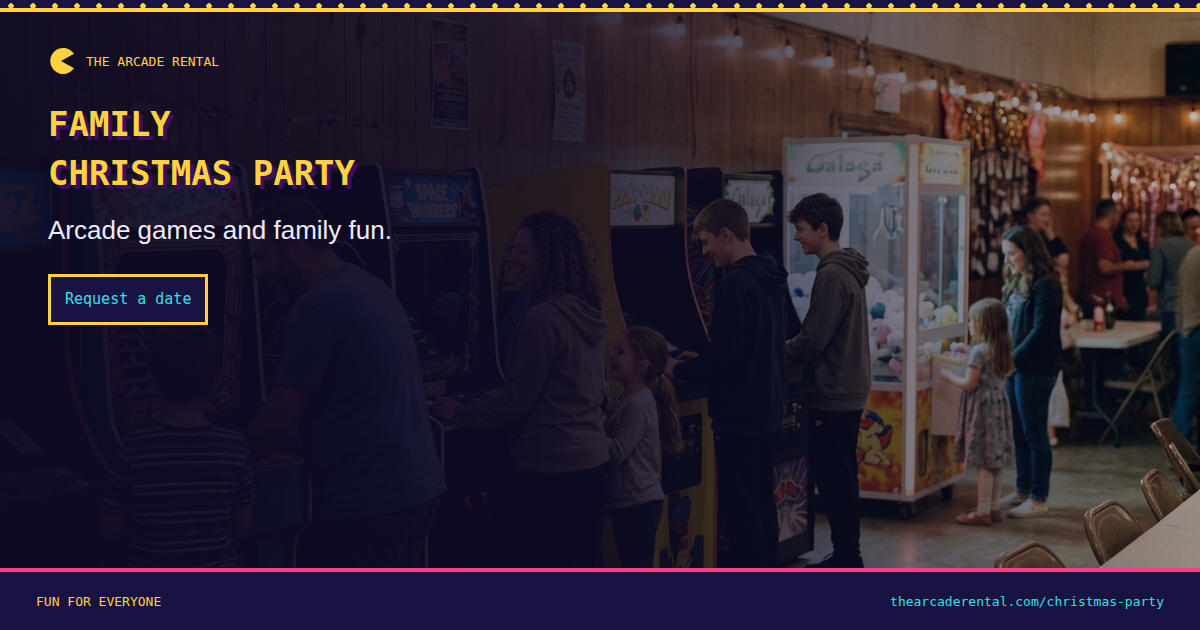
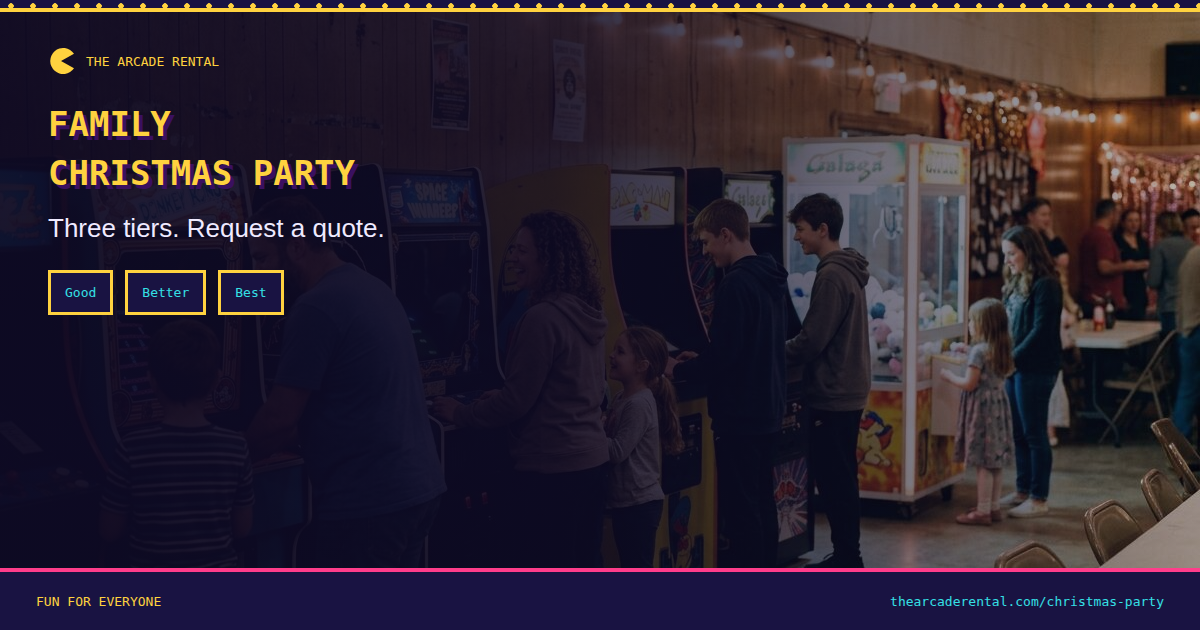
Simplify the four package pages to three choices each.
Birthday add-ons move to one line under the cards. Christmas uses Good, Better, and Best with Request a quote instead of a price.

Changed region(s): [[0.0308, 0.4222, 0.2467, 0.5429], [0.0308, 0.3317, 0.3392, 0.3921]]

diff --git a/christmas-party/index.html b/christmas-party/index.html
@@ -4,23 +4,23 @@
 <meta charset="utf-8">
 <meta name="viewport" content="width=device-width,initial-scale=1">
 <title>Family Christmas Party – The Arcade Rental</title>
-<meta name="description" content="Family Christmas party arcade rentals. Request a date with Steve Hanford for a holiday party with arcade games and family fun.">
+<meta name="description" content="Family Christmas party arcade rentals in three tiers. Request a quote for Good, Better, or Best. No price is listed on the flyer.">
 <link rel="canonical" href="https://thearcaderental.com/christmas-party">
 <meta property="og:title" content="Family Christmas Party – The Arcade Rental">
-<meta property="og:description" content="Family Christmas party arcade rentals. Request a date with Steve Hanford for a holiday party with arcade games and family fun.">
+<meta property="og:description" content="Family Christmas party arcade rentals in three tiers. Request a quote for Good, Better, or Best. No price is listed on the flyer.">
 <meta property="og:image" content="https://thearcaderental.com/og/christmas-party.png">
 <meta property="og:image:secure_url" content="https://thearcaderental.com/og/christmas-party.png">
 <meta property="og:image:width" content="1200">
 <meta property="og:image:height" content="630">
-<meta property="og:image:alt" content="Family Christmas party arcade rentals at The Arcade Rental. Request a date.">
+<meta property="og:image:alt" content="Family Christmas party at The Arcade Rental. Three tiers, each one request a quote.">
 <meta property="og:url" content="https://thearcaderental.com/christmas-party">
 <meta property="og:type" content="website">
 <meta property="og:site_name" content="The Arcade Rental">
 <meta name="twitter:card" content="summary_large_image">
 <meta name="twitter:title" content="Family Christmas Party – The Arcade Rental">
-<meta name="twitter:description" content="Family Christmas party arcade rentals. Request a date with Steve Hanford for a holiday party with arcade games and family fun.">
+<meta name="twitter:description" content="Family Christmas party arcade rentals in three tiers. Request a quote for Good, Better, or Best. No price is listed on the flyer.">
 <meta name="twitter:image" content="https://thearcaderental.com/og/christmas-party.png">
-<meta name="twitter:image:alt" content="Family Christmas party arcade rentals at The Arcade Rental. Request a date.">
+<meta name="twitter:image:alt" content="Family Christmas party at The Arcade Rental. Three tiers, each one request a quote.">
 <link rel="icon" href="../favicon.svg" type="image/svg+xml">
 <link rel="icon" href="../favicon-32.png" sizes="32x32" type="image/png">
 <link rel="alternate icon" href="../favicon.ico">
@@ -60,18 +60,44 @@
 </figure>
 </div></section>
 <section class="offer-options"><div class="wrap">
-    <div class="offer-grid single">
-    <article class="offer-card" style="--accent:#ff3d8b">
-      <p class="offer-kicker">HOLIDAY RENTAL</p>
-      <h2>Family Christmas Party</h2>
+    <div class="offer-grid">
+    <article class="offer-card" style="--accent:#5cf28a">
+      <p class="offer-kicker">GOOD</p>
+      <h2>Good</h2>
+      <p class="offer-price">Request a quote</p>
       <ul>
-        <li>Arcade games for the whole family</li>
-        <li>Party rental for your holiday gathering</li>
-        <li>Ask about available dates</li>
+        <li>Holiday party rental</li>
+        <li>Arcade games for the family</li>
       </ul>
       <div class="offer-actions">
-        <a class="btn btn-y js-pay" data-page="christmas-party" data-option="family-party" data-buy-label="BUY ▸" data-buy-aria="Buy a Family Christmas Party rental" aria-label="Email Steve to request a date for a Family Christmas Party" href="mailto:TheArcadeRental@gmail.com?subject=The%20Arcade%20Rental%3A%20Family%20Christmas%20Party%20%28request%20a%20date%29&amp;body=Hi%20Steve%2C%0A%0AI%20want%20to%20book%3A%20Family%20Christmas%20Party%20%28request%20a%20date%29.%0A%0AName%3A%0APhone%3A%0ADate%3A%0A">REQUEST A DATE ▸</a>
-        <a class="smslink js-text" href="sms:+15745275765?body=Hi%20Steve%2C%20I%20want%20to%20book%3A%20Family%20Christmas%20Party%20%28request%20a%20date%29." aria-label="Text Steve to request a date for a Family Christmas Party">or text Steve</a>
+        <a class="btn btn-y js-pay" data-page="christmas-party" data-option="good" data-buy-label="BUY ▸" data-buy-aria="Buy the Good Family Christmas Party" aria-label="Email Steve to request a quote for the Good Family Christmas Party" href="mailto:TheArcadeRental@gmail.com?subject=The%20Arcade%20Rental%3A%20Family%20Christmas%20Party%20%E2%80%94%20Good%20%28request%20a%20quote%29&amp;body=Hi%20Steve%2C%0A%0AI%20want%20to%20book%3A%20Family%20Christmas%20Party%20%E2%80%94%20Good%20%28request%20a%20quote%29.%0A%0AName%3A%0APhone%3A%0ADate%3A%0A">REQUEST A QUOTE</a>
+        <a class="smslink js-text" href="sms:+15745275765?body=Hi%20Steve%2C%20I%20want%20to%20book%3A%20Family%20Christmas%20Party%20%E2%80%94%20Good%20%28request%20a%20quote%29." aria-label="Text Steve to request a quote for the Good Family Christmas Party">or text Steve</a>
+      </div>
+    </article>
+    <article class="offer-card popular" style="--accent:#35e0e6">
+      <p class="offer-kicker">BETTER</p>
+      <h2>Better</h2>
+      <p class="offer-price">Request a quote</p>
+      <ul>
+        <li>Holiday party rental</li>
+        <li>Arcade games for the family</li>
+      </ul>
+      <div class="offer-actions">
+        <a class="btn btn-y js-pay" data-page="christmas-party" data-option="better" data-buy-label="BUY ▸" data-buy-aria="Buy the Better Family Christmas Party" aria-label="Email Steve to request a quote for the Better Family Christmas Party" href="mailto:TheArcadeRental@gmail.com?subject=The%20Arcade%20Rental%3A%20Family%20Christmas%20Party%20%E2%80%94%20Better%20%28request%20a%20quote%29&amp;body=Hi%20Steve%2C%0A%0AI%20want%20to%20book%3A%20Family%20Christmas%20Party%20%E2%80%94%20Better%20%28request%20a%20quote%29.%0A%0AName%3A%0APhone%3A%0ADate%3A%0A">REQUEST A QUOTE</a>
+        <a class="smslink js-text" href="sms:+15745275765?body=Hi%20Steve%2C%20I%20want%20to%20book%3A%20Family%20Christmas%20Party%20%E2%80%94%20Better%20%28request%20a%20quote%29." aria-label="Text Steve to request a quote for the Better Family Christmas Party">or text Steve</a>
+      </div>
+    </article>
+    <article class="offer-card" style="--accent:#ff3d8b">
+      <p class="offer-kicker">BEST</p>
+      <h2>Best</h2>
+      <p class="offer-price">Request a quote</p>
+      <ul>
+        <li>Holiday party rental</li>
+        <li>Arcade games for the family</li>
+      </ul>
+      <div class="offer-actions">
+        <a class="btn btn-y js-pay" data-page="christmas-party" data-option="best" data-buy-label="BUY ▸" data-buy-aria="Buy the Best Family Christmas Party" aria-label="Email Steve to request a quote for the Best Family Christmas Party" href="mailto:TheArcadeRental@gmail.com?subject=The%20Arcade%20Rental%3A%20Family%20Christmas%20Party%20%E2%80%94%20Best%20%28request%20a%20quote%29&amp;body=Hi%20Steve%2C%0A%0AI%20want%20to%20book%3A%20Family%20Christmas%20Party%20%E2%80%94%20Best%20%28request%20a%20quote%29.%0A%0AName%3A%0APhone%3A%0ADate%3A%0A">REQUEST A QUOTE</a>
+        <a class="smslink js-text" href="sms:+15745275765?body=Hi%20Steve%2C%20I%20want%20to%20book%3A%20Family%20Christmas%20Party%20%E2%80%94%20Best%20%28request%20a%20quote%29." aria-label="Text Steve to request a quote for the Best Family Christmas Party">or text Steve</a>
       </div>
     </article>
     </div>

diff --git a/birthday/index.html b/birthday/index.html
@@ -68,8 +68,6 @@
       <ul>
         <li>2 hours of unlimited arcade play</li>
         <li>Up to 10 kids</li>
-        <li>Additional child +$15 each</li>
-        <li>Parents Play Pass $5 per adult</li>
       </ul>
       <div class="offer-actions">
         <a class="btn btn-y js-pay" data-page="birthday" data-option="classic" data-buy-label="BUY ▸" data-buy-aria="Buy Level 1 Classic Gamer Party, $200" aria-label="Email Steve to buy Level 1 Classic Gamer Party, $200" href="mailto:TheArcadeRental@gmail.com?subject=The%20Arcade%20Rental%3A%20Level%201%20Classic%20Gamer%20Party%20%28%24200%29&amp;body=Hi%20Steve%2C%0A%0AI%20want%20to%20book%3A%20Level%201%20Classic%20Gamer%20Party%20%28%24200%29.%0A%0AName%3A%0APhone%3A%0ADate%3A%0A">BUY ▸</a>
@@ -83,8 +81,6 @@
       <ul>
         <li>2 hours of unlimited arcade play</li>
         <li>Up to 10 kids</li>
-        <li>Additional child +$20 each</li>
-        <li>Parents Play Pass $5 per adult</li>
       </ul>
       <div class="offer-actions">
         <a class="btn btn-y js-pay" data-page="birthday" data-option="power-up" data-buy-label="BUY ▸" data-buy-aria="Buy Level 2 Power Up Party, $300" aria-label="Email Steve to buy Level 2 Power Up Party, $300" href="mailto:TheArcadeRental@gmail.com?subject=The%20Arcade%20Rental%3A%20Level%202%20Power%20Up%20Party%20%28%24300%29&amp;body=Hi%20Steve%2C%0A%0AI%20want%20to%20book%3A%20Level%202%20Power%20Up%20Party%20%28%24300%29.%0A%0AName%3A%0APhone%3A%0ADate%3A%0A">BUY ▸</a>
@@ -98,8 +94,6 @@
       <ul>
         <li>2 hours of unlimited arcade play</li>
         <li>Up to 10 kids</li>
-        <li>Additional child +$25 each</li>
-        <li>Parents Play Pass $5 per adult</li>
       </ul>
       <div class="offer-actions">
         <a class="btn btn-y js-pay" data-page="birthday" data-option="ultimate" data-buy-label="BUY ▸" data-buy-aria="Buy Level 3 Ultimate High Score Party, $400" aria-label="Email Steve to buy Level 3 Ultimate High Score Party, $400" href="mailto:TheArcadeRental@gmail.com?subject=The%20Arcade%20Rental%3A%20Level%203%20Ultimate%20High%20Score%20Party%20%28%24400%29&amp;body=Hi%20Steve%2C%0A%0AI%20want%20to%20book%3A%20Level%203%20Ultimate%20High%20Score%20Party%20%28%24400%29.%0A%0AName%3A%0APhone%3A%0ADate%3A%0A">BUY ▸</a>
@@ -107,6 +101,7 @@
       </div>
     </article>
     </div>
+    <p class="offer-fine">Additional children: Classic +$15, Power Up +$20, Ultimate +$25 each. Parents Play Pass $5 per adult.</p>
 </div></section>
 <section class="cta"><div class="wrap">
 <p class="contactline">Contact <strong>Steve Hanford</strong> · <a href="mailto:TheArcadeRental@gmail.com">TheArcadeRental@gmail.com</a> · call/text <a href="tel:5745275765">574-527-5765</a></p>

diff --git a/index.html b/index.html
@@ -83,7 +83,7 @@
 <section id="packages" style="padding-top:0"><div class="wrap">
 <h2>PACKAGES</h2>
 <p>Private parties at the arcade — birthdays, corporate events, youth nights, and the holidays.</p>
-<div class="grid"><a class="card" style="--card:#ff3d8b" href="birthday/"><span class="k">PRIVATE PARTY</span><span class="n">BIRTHDAY PARTIES</span><p>Two hours of unlimited play for up to 10 kids. $200, $300, or $400.</p></a><a class="card" style="--card:#35e0e6" href="corporate/"><span class="k">PRIVATE EVENT</span><span class="n">CORPORATE EVENTS</span><p>2-hour team events for 20, 30, or 40 people. $200, $300, or $400.</p></a><a class="card" style="--card:#ffd23f" href="church-youth/"><span class="k">PRIVATE EVENT</span><span class="n">CHURCH YOUTH NIGHT</span><p>Free-play youth night. Good $200, Better $300, Best $400.</p></a><a class="card" style="--card:#8f7bff" href="christmas-party/"><span class="k">HOLIDAY</span><span class="n">CHRISTMAS PARTY</span><p>Family holiday arcade rental. Request a date.</p></a></div>
+<div class="grid"><a class="card" style="--card:#ff3d8b" href="birthday/"><span class="k">PRIVATE PARTY</span><span class="n">BIRTHDAY PARTIES</span><p>Two hours of unlimited play for up to 10 kids. $200, $300, or $400.</p></a><a class="card" style="--card:#35e0e6" href="corporate/"><span class="k">PRIVATE EVENT</span><span class="n">CORPORATE EVENTS</span><p>2-hour team events for 20, 30, or 40 people. $200, $300, or $400.</p></a><a class="card" style="--card:#ffd23f" href="church-youth/"><span class="k">PRIVATE EVENT</span><span class="n">CHURCH YOUTH NIGHT</span><p>Free-play youth night. Good $200, Better $300, Best $400.</p></a><a class="card" style="--card:#8f7bff" href="christmas-party/"><span class="k">HOLIDAY</span><span class="n">CHRISTMAS PARTY</span><p>Three holiday tiers. Request a quote for each.</p></a></div>
 </div></section>
 
 <section style="padding-top:0"><div class="wrap">

diff --git a/church-youth/index.html b/church-youth/index.html
@@ -82,9 +82,7 @@
       <ul>
         <li>2-hour private rental</li>
         <li>All games free play</li>
-        <li>Popcorn or snack for the group</li>
-        <li>Nachos for the group</li>
-        <li>Bottled drinks</li>
+        <li>Popcorn or snack, nachos, and bottled drinks</li>
       </ul>
       <div class="offer-actions">
         <a class="btn btn-y js-pay" data-page="church-youth" data-option="better" data-buy-label="BUY ▸" data-buy-aria="Buy Church Youth Better, $300" aria-label="Email Steve to buy Church Youth Better, $300" href="mailto:TheArcadeRental@gmail.com?subject=The%20Arcade%20Rental%3A%20Church%20Youth%20Better%20%28%24300%29&amp;body=Hi%20Steve%2C%0A%0AI%20want%20to%20book%3A%20Church%20Youth%20Better%20%28%24300%29.%0A%0AName%3A%0APhone%3A%0ADate%3A%0A">BUY ▸</a>
@@ -98,11 +96,7 @@
       <ul>
         <li>2-hour private rental</li>
         <li>All games free play</li>
-        <li>Popcorn or snack for the group</li>
-        <li>Nachos for the group</li>
-        <li>Bottled drinks</li>
-        <li>Arcade tournament with prizes</li>
-        <li>Upgraded group experience</li>
+        <li>Tournament with prizes, plus the Better snacks and drinks</li>
       </ul>
       <div class="offer-actions">
         <a class="btn btn-y js-pay" data-page="church-youth" data-option="best" data-buy-label="BUY ▸" data-buy-aria="Buy Church Youth Best, $400" aria-label="Email Steve to buy Church Youth Best, $400" href="mailto:TheArcadeRental@gmail.com?subject=The%20Arcade%20Rental%3A%20Church%20Youth%20Best%20%28%24400%29&amp;body=Hi%20Steve%2C%0A%0AI%20want%20to%20book%3A%20Church%20Youth%20Best%20%28%24400%29.%0A%0AName%3A%0APhone%3A%0ADate%3A%0A">BUY ▸</a>

diff --git a/payment-links.js b/payment-links.js
@@ -20,15 +20,15 @@
   package name filled in, and "or text Steve" stays visible (sms to
   574-527-5765, same package name). Nothing 404s while links are missing.
 
-  christmas-party has no flyer price. Leave family-party as PLACEHOLDER
-  and the button stays "Request a date". Drop in a Payment Link later
-  if you add a price, and that button becomes BUY.
+  christmas-party has no flyer price. Each tier stays "Request a quote"
+  while its value is PLACEHOLDER. Paste a Payment Link later if you add
+  a price, and that button becomes BUY.
 
   OPTION KEYS
   birthday          classic | power-up | ultimate
   corporate         team-pass | team-builder | ultimate-team
   church-youth      good | better | best
-  christmas-party   family-party
+  christmas-party   good | better | best
 */
 window.ARCADE_PAYMENT_LINKS = {
   birthday: {
@@ -56,8 +56,10 @@ window.ARCADE_PAYMENT_LINKS = {
     "best": "PLACEHOLDER"
   },
   "christmas-party": {
-    // No price on the flyer. Request a date until a link is pasted.
-    "family-party": "PLACEHOLDER"
+    // No prices on the flyer. Each button says Request a quote.
+    "good": "PLACEHOLDER",
+    "better": "PLACEHOLDER",
+    "best": "PLACEHOLDER"
   }
 };
 

diff --git a/styles.css b/styles.css
@@ -292,6 +292,7 @@ body.offer .cta .contactline{margin:0}
   .offer-card .btn{padding:12px 8px}
   .offer-card .smslink{margin-top:6px;font-size:14px}
   body.offer .offer-options .note{margin:12px 0 0}
+  .offer-fine{margin:12px 0 0}
   body.offer .cta{padding:16px 0}
   body.offer .cta .contactline{font-size:15px}
 }
@@ -316,6 +317,7 @@ body.offer .cta .contactline{margin:0}
 .offer-card .smslink{display:block;text-align:center;margin-top:10px;font-size:15px}
 .offer-card .btn[hidden],.offer-card .smslink[hidden]{display:none}
 body.offer .offer-options .note{margin:22px 0 0}
+.offer-fine{margin:16px 0 0;font-size:13px;line-height:1.45;color:var(--dim)}
 @media (prefers-reduced-motion:reduce){
   .offer-card,.offer-card:hover{transition:none;transform:none}
 }
